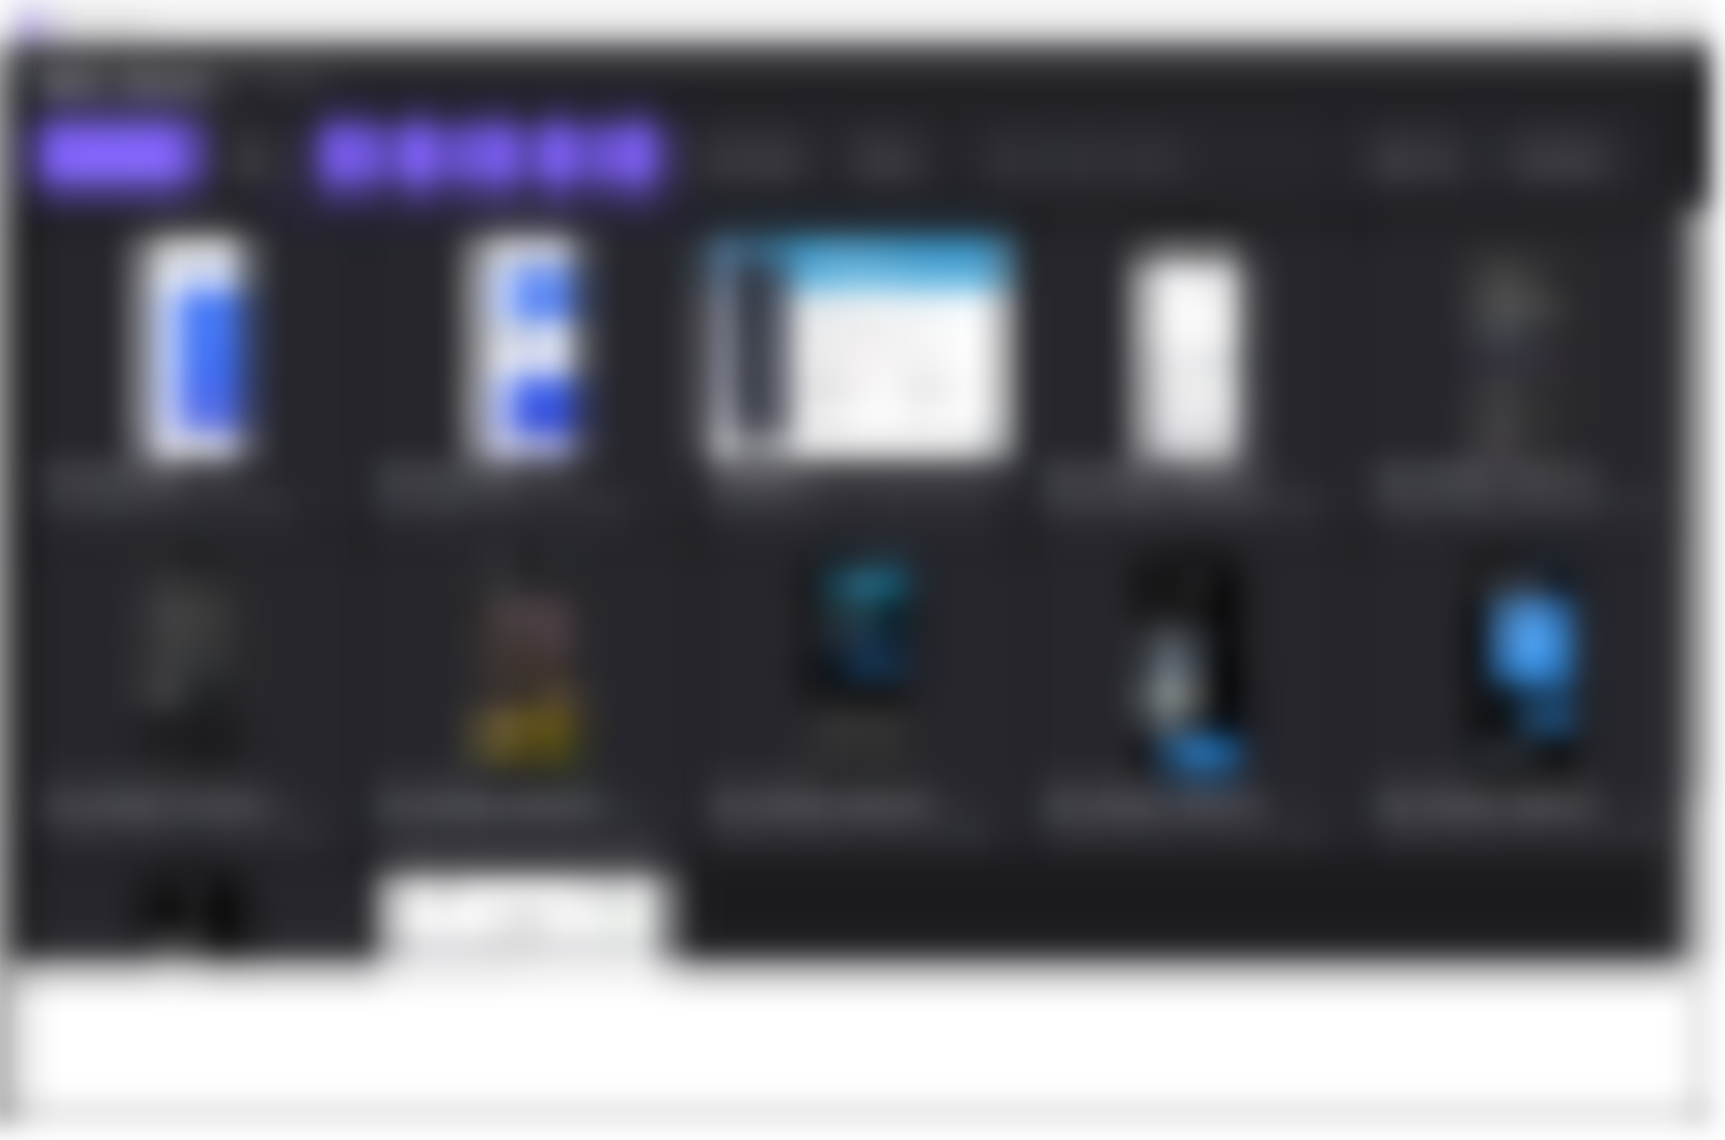
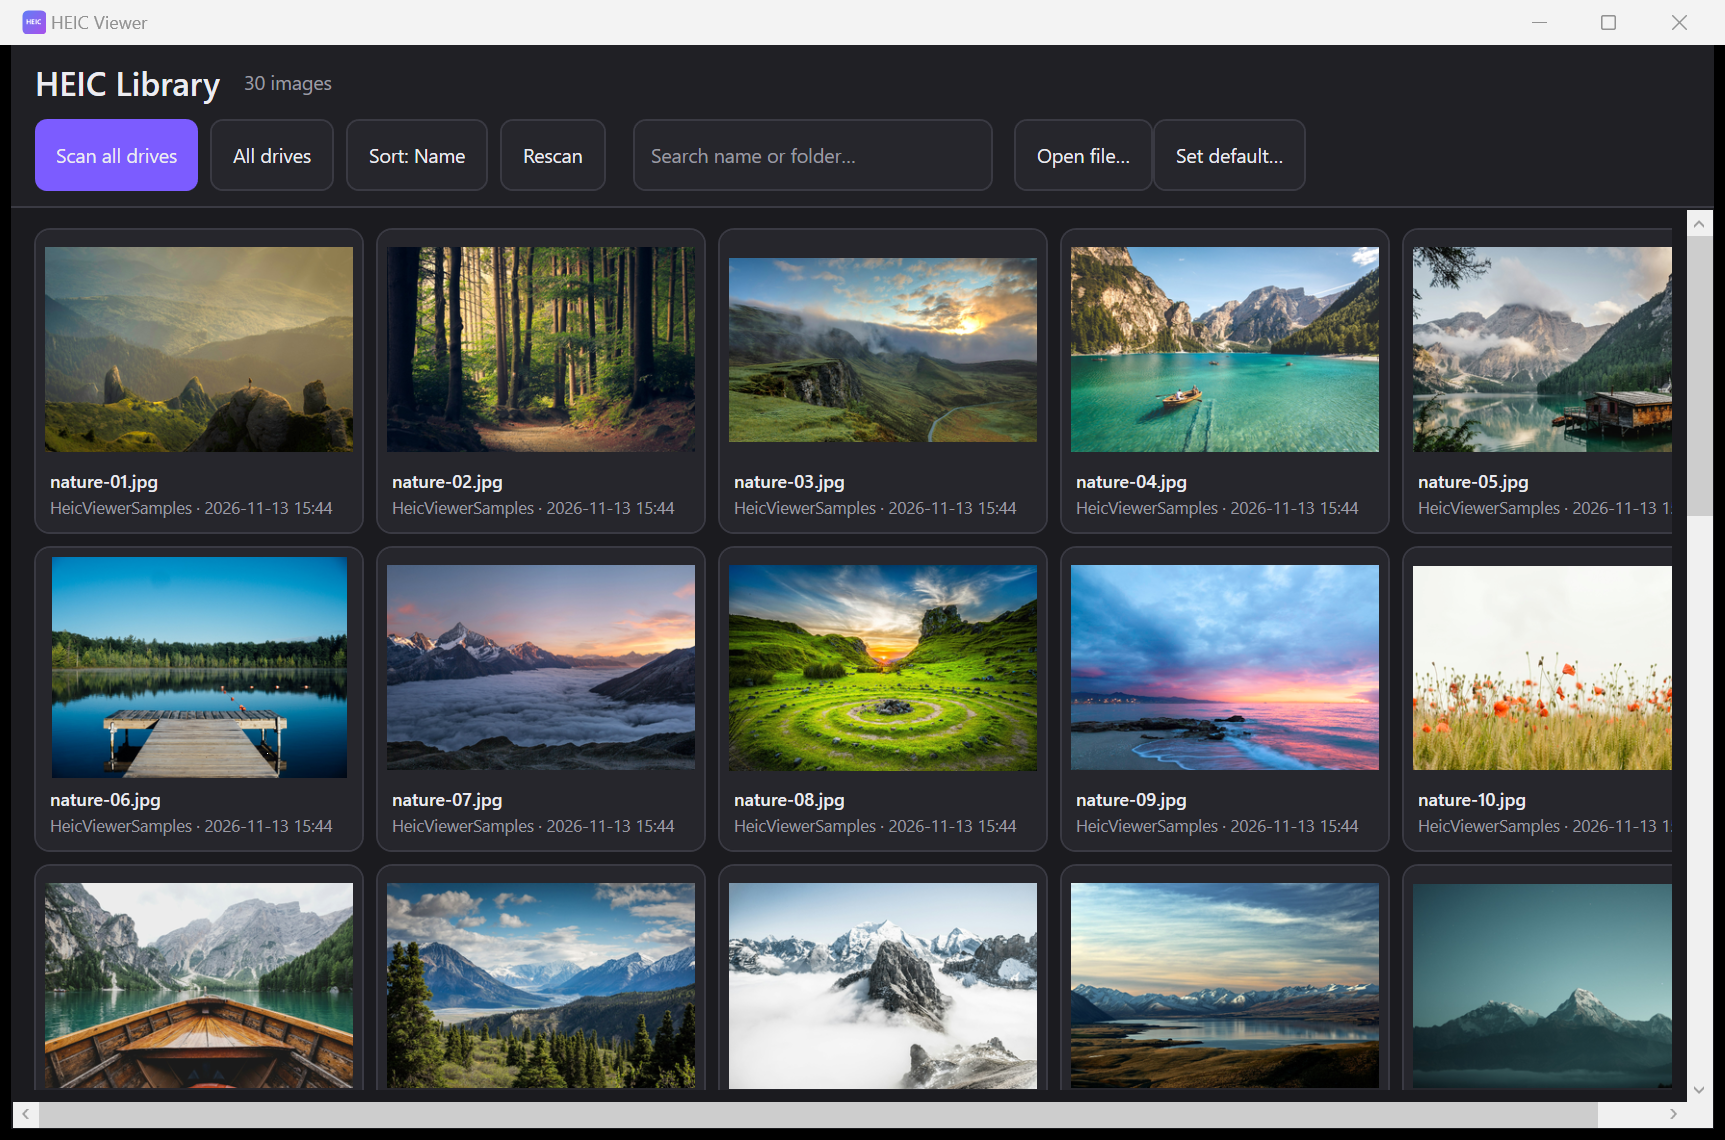
Add 30 royalty-free nature sample images, folder mode shows all formats, new screenshots

diff --git a/src/HeicViewer/LibraryView.xaml.cs b/src/HeicViewer/LibraryView.xaml.cs
@@ -35,6 +35,7 @@ public partial class LibraryView : UserControl, INotifyPropertyChanged
     private List<ImageItem> _viewList = [];
     private CancellationTokenSource? _scanCts;
     private string? _folderScope;
+    private bool _folderAllFormats;            // folder mode shows every supported format
     private int _sortIndex;
     private string _search = "";
     private int _columns = 6;
@@ -138,18 +139,20 @@ public partial class LibraryView : UserControl, INotifyPropertyChanged
         }
     }
 
-    /// <summary>App entry point: scan every fixed drive.</summary>
+    /// <summary>App entry point: scan every fixed drive (HEIC family focus).</summary>
     public void ScanAllDrives()
     {
         _folderScope = null;
+        _folderAllFormats = false;
         UpdateScopeUi();
         StartScan(SelectedRoots());
     }
 
-    /// <summary>Open a specific folder as the library scope.</summary>
+    /// <summary>Open a specific folder as the library scope (all supported formats).</summary>
     public void OpenFolder(string folder)
     {
         _folderScope = folder;
+        _folderAllFormats = true;
         UpdateScopeUi();
         StartScan([folder]);
     }
@@ -180,8 +183,9 @@ public partial class LibraryView : UserControl, INotifyPropertyChanged
 
         var channel = Channel.CreateBounded<ImageItem>(1024);
         var ct2 = ct;
+        bool allFormats = _folderAllFormats;
         var producers = roots.Select(root =>
-            Task.Run(() => ProduceRoot(root, channel.Writer, ct2), ct2)).ToArray();
+            Task.Run(() => ProduceRoot(root, channel.Writer, ct2, allFormats), ct2)).ToArray();
         var consumer = Task.Run(() => ConsumeAsync(channel.Reader, ct2), ct2);
         _ = Task.WhenAll(producers).ContinueWith(
             _ => channel.Writer.TryComplete(), TaskScheduler.Default);
@@ -199,7 +203,7 @@ public partial class LibraryView : UserControl, INotifyPropertyChanged
         }
     }
 
-    private static void ProduceRoot(string root, ChannelWriter<ImageItem> writer, CancellationToken ct)
+    private static void ProduceRoot(string root, ChannelWriter<ImageItem> writer, CancellationToken ct, bool allFormats)
     {
         try
         {
@@ -231,7 +235,9 @@ public partial class LibraryView : UserControl, INotifyPropertyChanged
                     {
                         if (ct.IsCancellationRequested) return;
                         var ext = Path.GetExtension(file);
-                        if (ext.Length == 0 || !DecodeService.IsHeicFamily(file)) continue;
+                        if (ext.Length == 0) continue;
+                        if (allFormats ? !DecodeService.IsSupported(file) : !DecodeService.IsHeicFamily(file))
+                            continue;
                         writer.TryWrite(new ImageItem(file));
                     }
                 }

diff --git a/README.md b/README.md
@@ -63,6 +63,17 @@ dotnet publish src/HeicViewer -c Release -r win-x64 --self-contained true `
 
 `DecodeService` decodes through Magick.NET's bundled libheif/libde265 and falls back to Windows Imaging Component when the (optional) HEIF/HEVC codecs are installed. Thumbnails are rendered once per file into `%LOCALAPPDATA%\HeicViewer\thumbs`, keyed by path + size + mtime, by 2–4 background workers.
 
+## Sample images
+
+`docs/samples` ships 30 royalty-free nature photos (used for the screenshots above and handy for testing the app — open the folder and browse). A selection:
+
+| | | |
+|---|---|---|
+| ![nature-01](docs/samples/nature-01.jpg) | ![nature-04](docs/samples/nature-04.jpg) | ![nature-08](docs/samples/nature-08.jpg) |
+| ![nature-13](docs/samples/nature-13.jpg) | ![nature-16](docs/samples/nature-16.jpg) | ![nature-23](docs/samples/nature-23.jpg) |
+
+Photos are from [Unsplash](https://unsplash.com) contributors, used under the [Unsplash License](https://unsplash.com/license) (free for any use). Source URLs: [docs/samples/SOURCES.txt](docs/samples/SOURCES.txt).
+
 ## License
 
 MIT — see [LICENSE](LICENSE).
